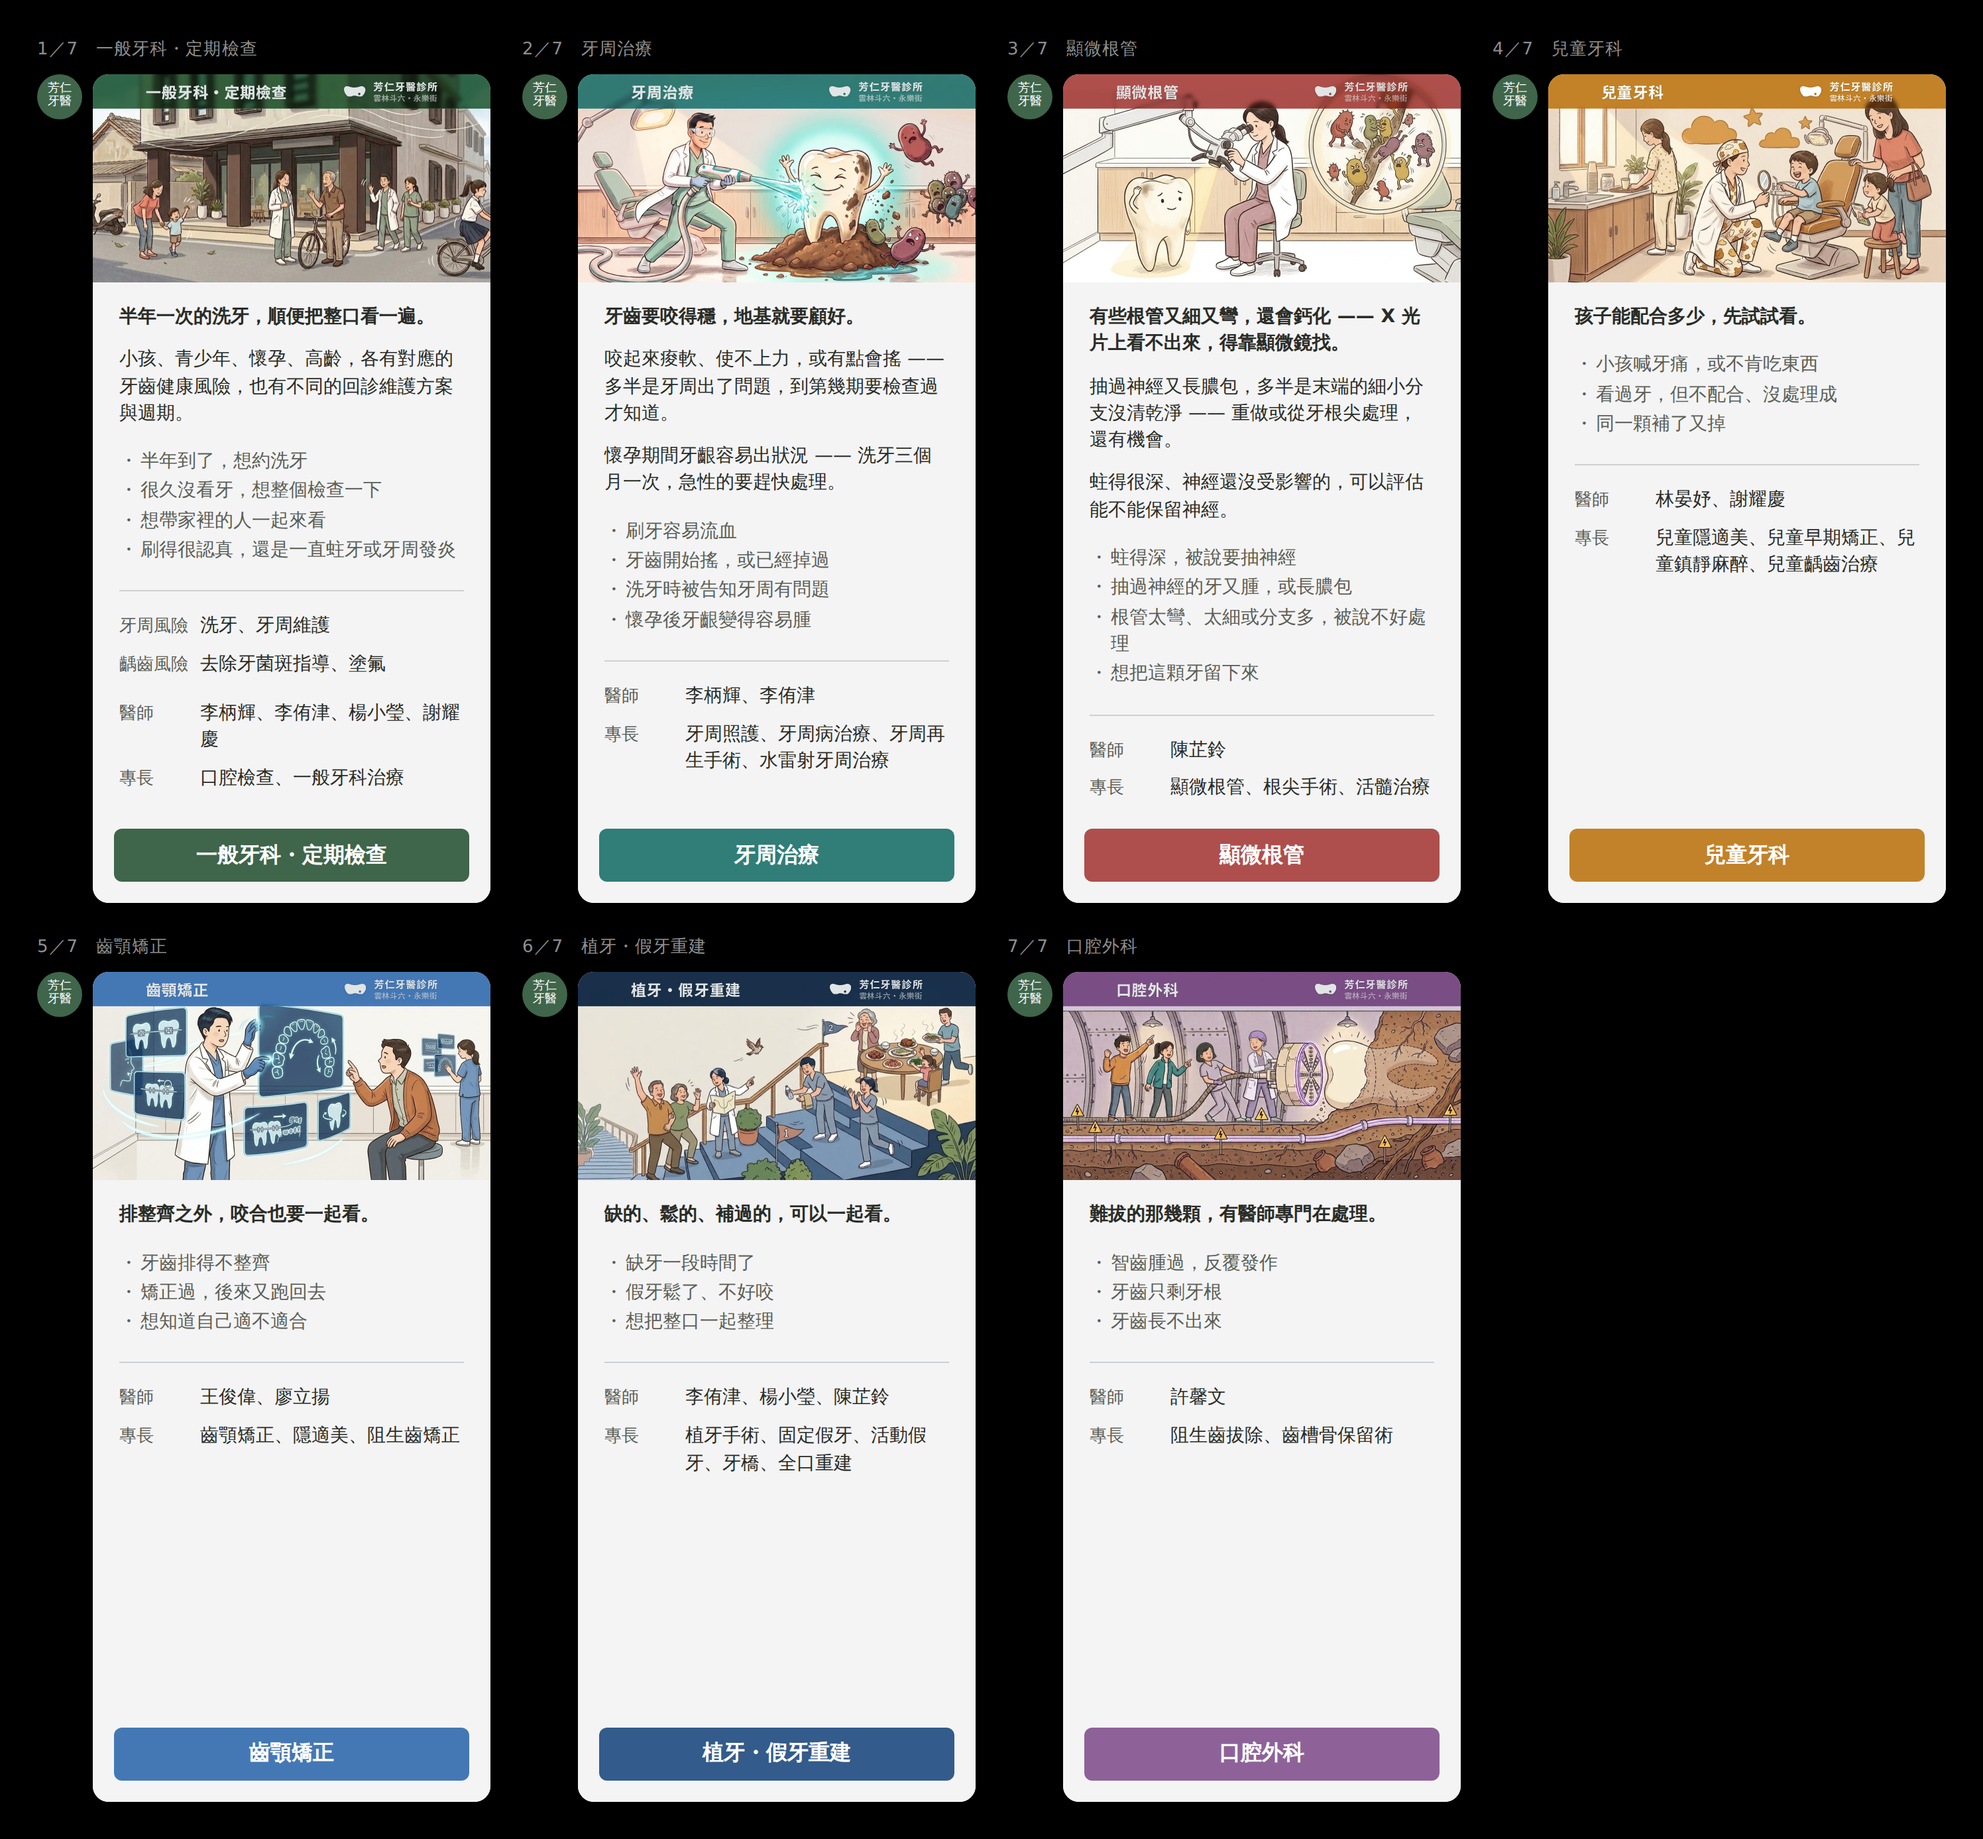
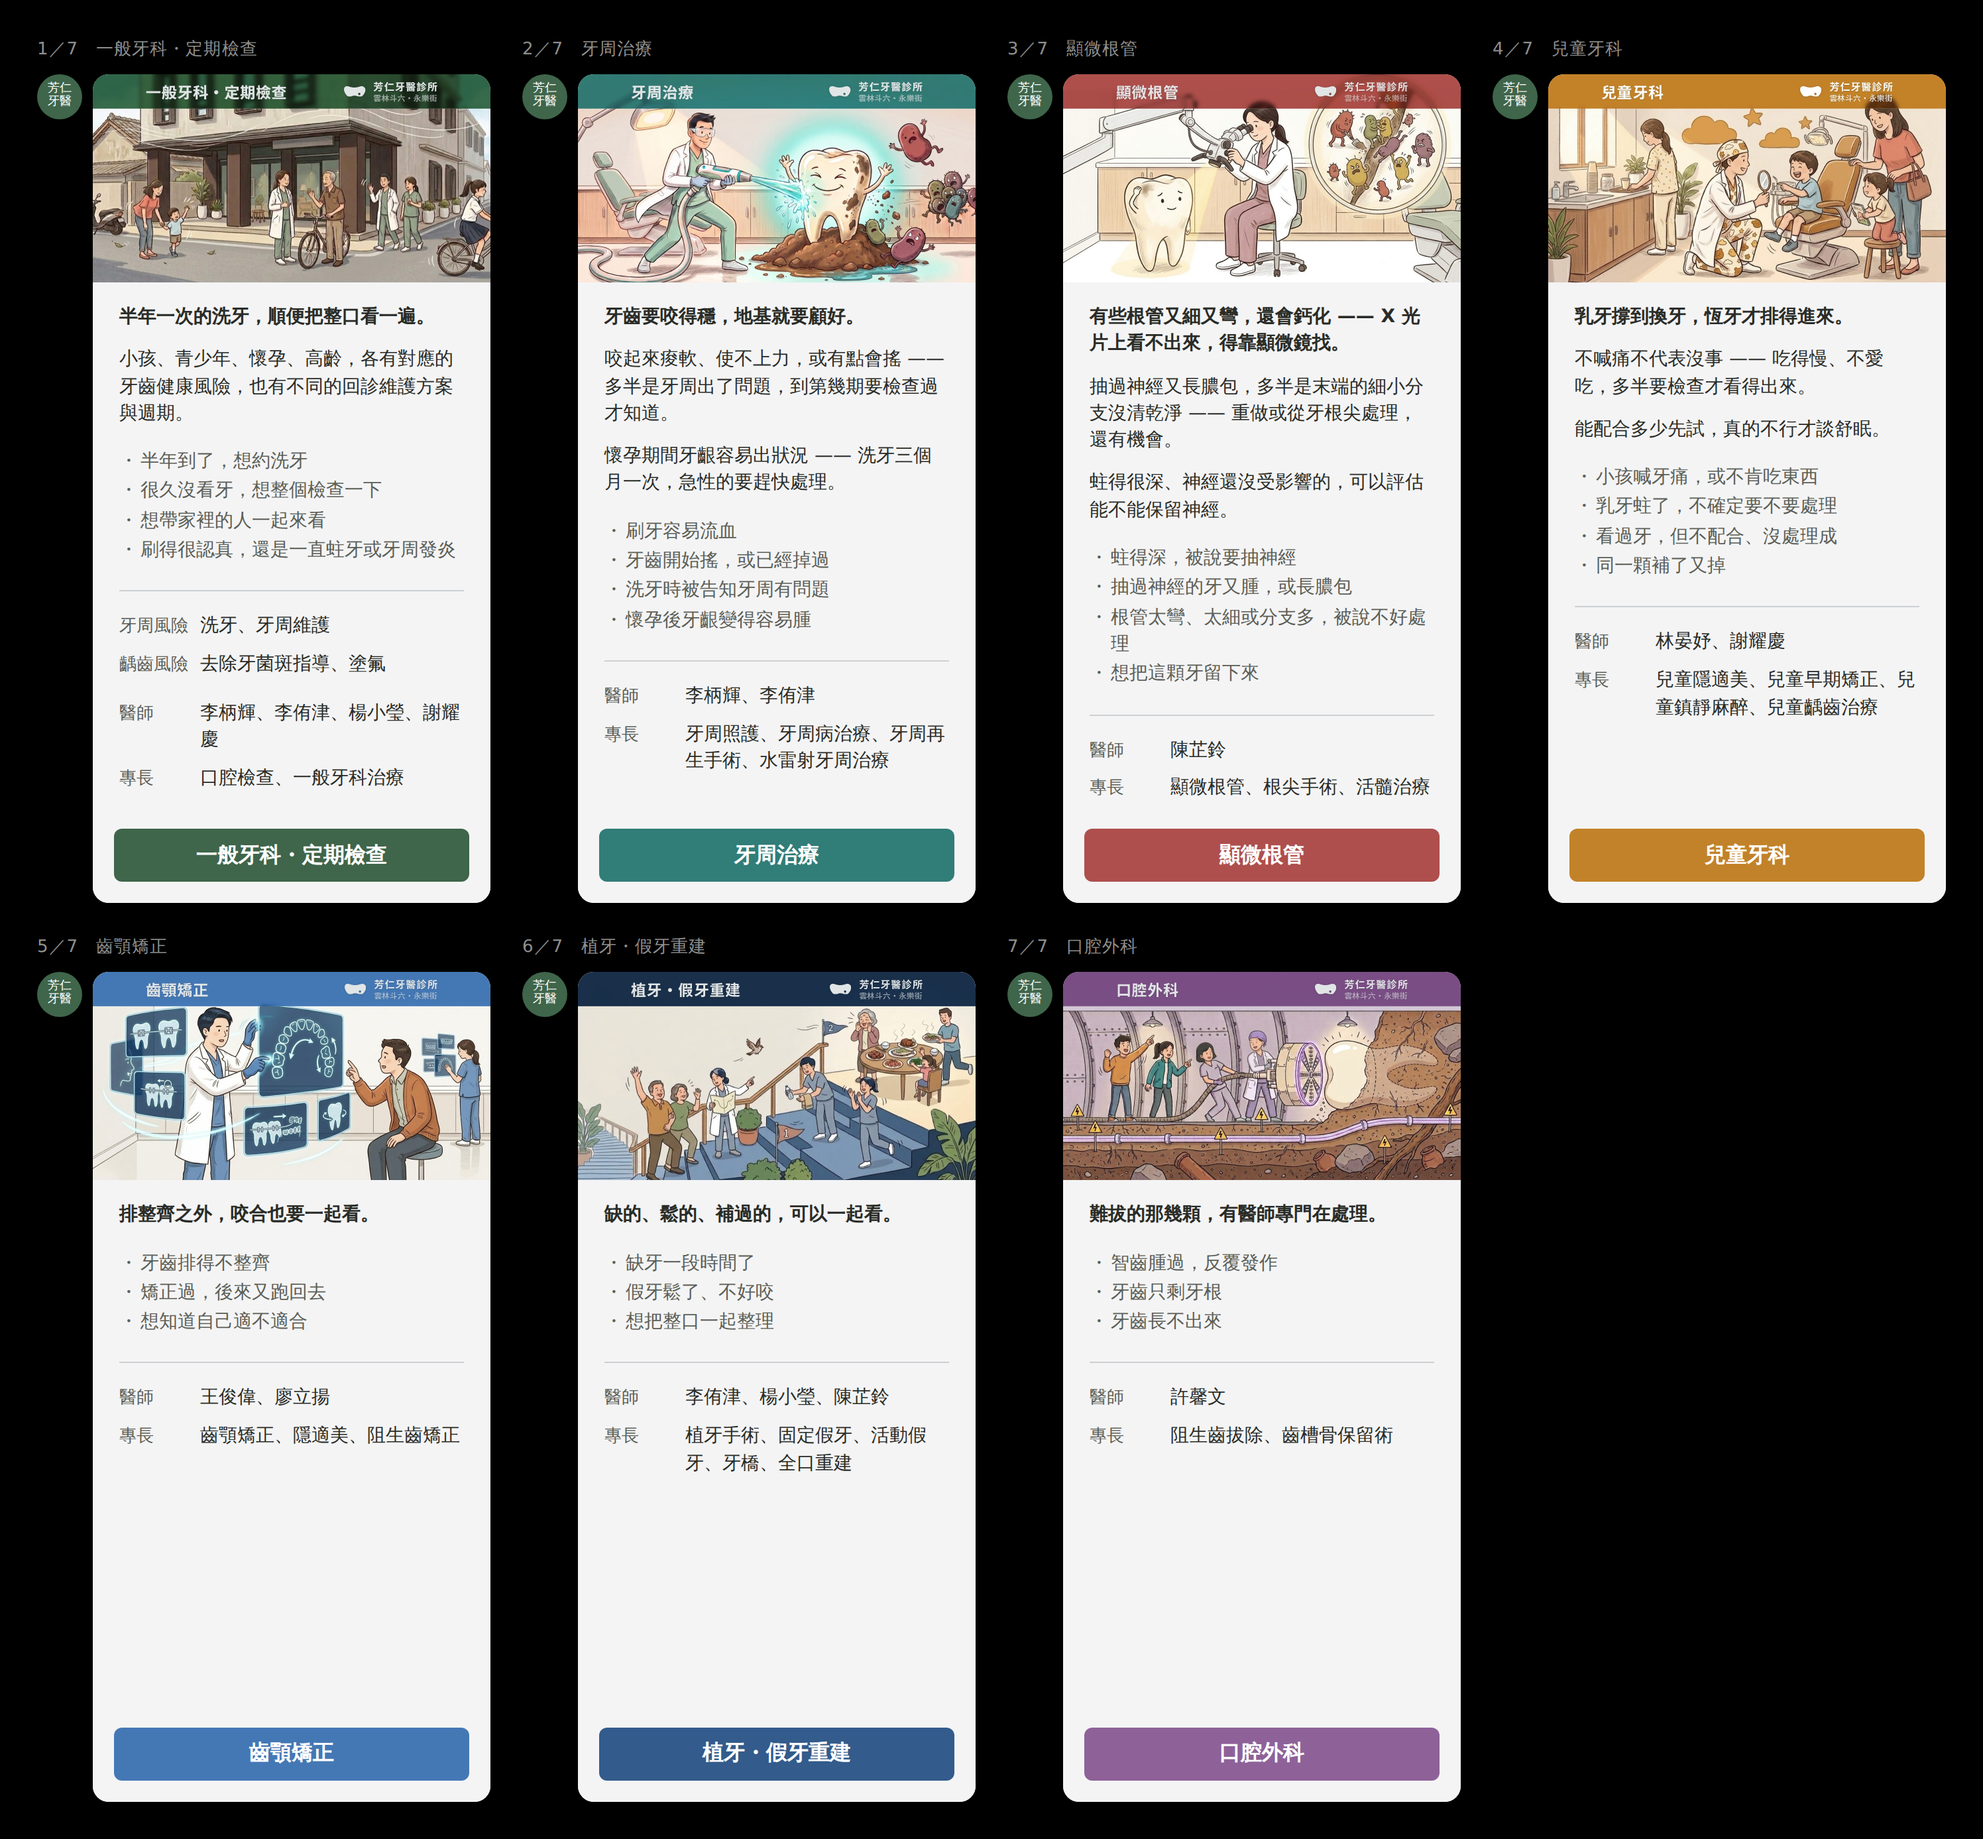
兒童牙科整張重寫：開場換成乳牙替恆牙占位
第一版 open「孩子能配合多少，先試試看」兩個毛病：講的是看診的方法不是這一科
解決什麼問題；而且拿第十一輪那條通則問一次「隔壁那科會不會也這樣講」——
遇到不配合的大人別科照樣這樣講，所以不夠格當開場。

定案：
・open ← flow［留位置］，和牙周「地基」、根管「看不見的那一段」同一個手法：
  指向真的存在的機制（乳牙替恆牙占位），直接回答家長最大的猶豫「反正會換，
  要不要處理」。寫成正面句，不寫「乳牙不是反正會換」。
・note① 不喊痛不代表沒事 —— 吃得慢、不愛吃家長多半歸給挑食，不會想到牙齒。
  沒有寫「只用一邊咬」（那是植牙那科的說法，不跨科搬）。
・note② 能配合多少先試，真的不行才談舒眠 ← flow［先試過］。舒眠只寫邊界、
  不介紹怎麼做（同活髓那條通則；而且那件事還沒問到診所）。用「舒眠」不用
  「鎮靜麻醉」——前者是著陸頁對家長的字。
・cases 新增「乳牙蛀了，不確定要不要處理」，把 open 回答的猶豫寫成家長的話。

版面沒有再長（1387）。

Claude-Session: https://claude.ai/code/session_01QMa36HgXCp2rYEV7ykbWqK

Changed region(s): [[0.7771, 0.155, 0.9636, 0.31], [0.8392, 0.341, 0.9636, 0.403], [0.7771, 0.341, 0.8082, 0.372]]

diff --git a/drafts/line-oa/README.md b/drafts/line-oa/README.md
@@ -195,7 +195,7 @@ node drafts/line-oa/flex-preview.mjs topics-carousel.json     # → preview-topi
 | 一般牙科 | 半年一次的洗牙，順便把整口看一遍。<br>（另有 `note` 與兩列 `rows`：風險 → 做什麼） | flow［半年］逐字＋使用者 08-27 補的事實 |
 | 牙周治療 | 牙齒要咬得穩，地基就要顧好。<br>（另有兩句 `note`：痠軟使不上力多半是牙周／懷孕） | flow［檢查］「地基」＋使用者 08-27 指定的兩個概念 |
 | 顯微根管 | 有些根管又細又彎，還會鈣化 —— X 光片上看不出來，得靠顯微鏡找。<br>（另有兩句 `note`：長膿包／活髓） | flow［清得到］＋〈生物陶瓷〉＋使用者 08-27 給的事實 |
-| 兒童牙科 | 孩子能配合多少，先試試看。 | flow［先試過］ |
+| 兒童牙科 | 乳牙撐到換牙，恆牙才排得進來。<br>（另有兩句 `note`：不喊痛不代表沒事／舒眠的順序） | flow［留位置］＋groups①reply＋flow［先試過］ |
 | 齒顎矯正 | 排整齊之外，咬合也要一起看。 | stance |
 | 植牙・假牙重建 | 缺的、鬆的、補過的，可以一起看。 | cases②＋flow［看全口］ |
 | 口腔外科 | 難拔的那幾顆，有醫師專門在處理。 | stance＋close |
@@ -532,3 +532,41 @@ CLAUDE.md 第九節那張表裡**還沒問到**的事，不要自己補。
 而且不要放第一句。卡片沒有空間承接期待，期待會直接落到診間。**
 
 ⚠ **沒有寫成功率的數字** —— 沒有問到診所自己的數據，不要引用文獻上的。
+
+### 第十三輪：兒童牙科整張重寫（2026-08-27）
+
+第一版的 open「孩子能配合多少，先試試看」兩個毛病：
+① 它講的是**看診的方法**，不是這一科在解決什麼問題；
+② 拿第十一輪那條通則去問一次「隔壁那科會不會也這樣講」——
+   遇到不配合的大人，別科照樣這樣講，**所以它不夠格當這一科的開場**。
+
+定案：
+
+> **乳牙撐到換牙，恆牙才排得進來。**
+> 不喊痛不代表沒事 —— 吃得慢、不愛吃，多半要檢查才看得出來。
+> 能配合多少先試，真的不行才談舒眠。
+> ・小孩喊牙痛，或不肯吃東西
+> ・乳牙蛀了，不確定要不要處理
+> ・看過牙，但不配合、沒處理成
+> ・同一顆補了又掉
+
+**open** ← flow［留位置］「乳牙留不住，先幫恆牙留著位置」。
+和牙周的「地基」、根管的「看不見的那一段」是**同一個手法**：指向一個真的存在
+的機制（乳牙在替恆牙占位），而且直接回答家長最大的猶豫 ——「反正會換，要不要處理？」
+⚠ 寫成正面的「撐到換牙，恆牙才排得進來」，**不寫「乳牙不是反正會換」**。
+
+**note①** 是這張卡最有價值的一句：**吃得慢、不愛吃，家長多半歸給挑食**，
+不會想到牙齒（同牙周「痠軟就是牙周」那一條）。
+⚠ 沒有寫「只用一邊咬」——那是站上**植牙**那一科的說法，兒牙頁面上沒有，不跨科搬。
+
+**note②** ← flow［先試過］逐字改口語。
+⚠⚠ **舒眠只寫「真的不行才談」，不介紹它怎麼做** —— 同第十二輪活髓那條通則：
+適應症有限的處置，寫在卡片上要連邊界一起寫，而且不要放第一句。而且
+「舒眠實際怎麼做（誰執行、怎麼監測、什麼情況才建議）」是 CLAUDE.md 第九節那張表裡
+**還沒問到診所**的事，更不能自己補。
+⚠ 用「舒眠」不用「鎮靜麻醉」——前者是著陸頁對家長用的字，後者是醫師卡上的
+專長標記（那一欄照樣會顯示，兩邊各自對）。
+
+**cases** ①③④ 維持；②新增，把 open 回答的那個猶豫寫成家長自己的話。
+
+⚠ 版面沒有再長（1387 CSS px，和上一版相同）。
